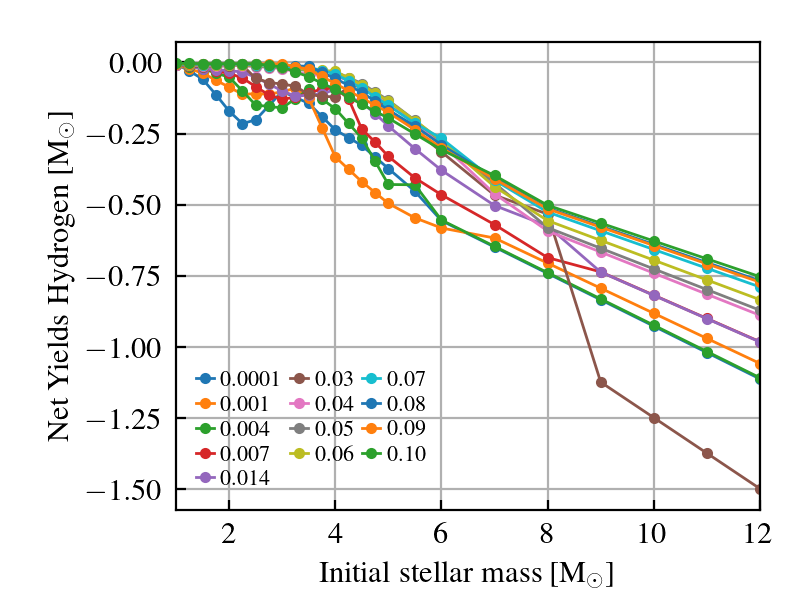
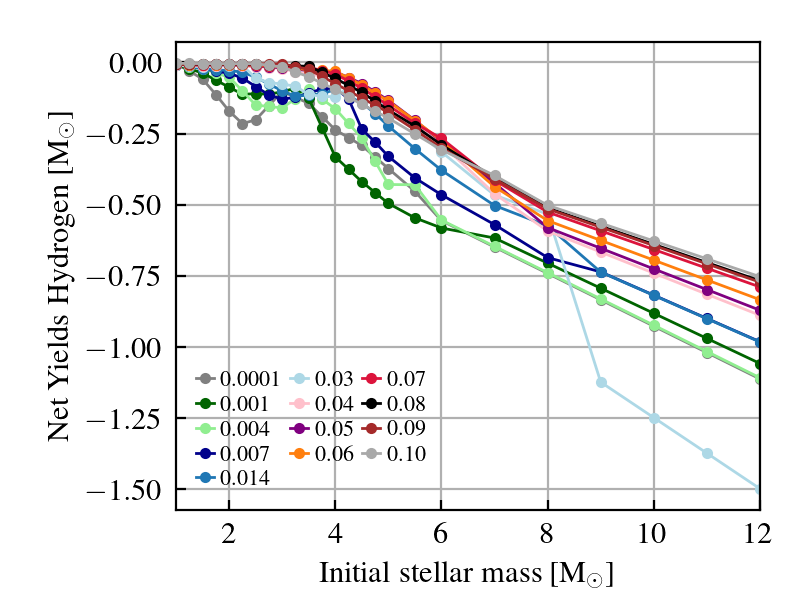
Re-making figures for AGB yields and testing N/O relations from yields

diff --git a/tests/test_abundance_ratios.py b/tests/test_abundance_ratios.py
@@ -1,0 +1,188 @@
+import h5py
+import numpy as np
+from pylab import *
+import matplotlib.pyplot as plt
+
+# Plot parameters
+params = {
+    "font.size": 11,
+    "font.family": "Times",
+    "text.usetex": True,
+    "figure.figsize": (4, 2.8),
+    "figure.subplot.left": 0.15,
+    "figure.subplot.right": 0.95,
+    "figure.subplot.bottom": 0.15,
+    "figure.subplot.top": 0.96,
+    "figure.subplot.wspace": 0.25,
+    "figure.subplot.hspace": 0.25,
+    "lines.markersize": 3,
+    "lines.linewidth": 1,
+    "figure.max_open_warning": 0,
+    "axes.axisbelow": True,
+}
+rcParams.update(params)
+
+mass_fraction = np.array([0.73738788833, #H
+                          0.24924186942, #He
+                          0.0023647215,  #C
+                          0.0006928991,  #N
+                          0.00573271036, #O
+                          0.00125649278, #Ne
+                          0.00070797838, #Mg
+                          0.00066495154, #Si
+                          0.00129199252]) #Fe
+
+total_mass_fraction = 0.0133714
+
+def read_AGB_COLIBRE():
+
+    #['Hydrogen','Helium','Carbon','Nitrogen','Oxygen','Neon','Magnesium','Silicon','Iron']
+    indx = np.array([0, 1, 2, 3, 4, 5, 6, 7, 10])
+
+
+    # Write data to HDF5
+    with h5py.File('../data/AGB.hdf5', 'r') as data_file:
+        Masses = data_file["Masses"][:]
+        Yield_Z0p0001 = data_file["/Yields/Z_0.0001/Yield"][:][:]
+        Ejected_mass_Z0p0001 = data_file["/Yields/Z_0.0001/Ejected_mass"][:]
+        Yield_Z0p001 = data_file["/Yields/Z_0.001/Yield"][:][:]
+        Ejected_mass_Z0p001 = data_file["/Yields/Z_0.001/Ejected_mass"][:]
+        Yield_Z0p004 = data_file["/Yields/Z_0.004/Yield"][:][:]
+        Ejected_mass_Z0p004 = data_file["/Yields/Z_0.004/Ejected_mass"][:]
+        Yield_Z0p007 = data_file["/Yields/Z_0.007/Yield"][:][:]
+        Ejected_mass_Z0p007 = data_file["/Yields/Z_0.007/Ejected_mass"][:]
+        Yield_Z0p014 = data_file["/Yields/Z_0.014/Yield"][:][:]
+        Ejected_mass_Z0p014 = data_file["/Yields/Z_0.014/Ejected_mass"][:]
+        Yield_Z0p03 = data_file["/Yields/Z_0.03/Yield"][:][:]
+        Ejected_mass_Z0p03 = data_file["/Yields/Z_0.03/Ejected_mass"][:]
+
+    num_mass_bins = len(Masses)
+    num_elements = len(mass_fraction)
+    num_metals = 6
+    stellar_yields = np.zeros((num_elements, num_mass_bins, num_metals))
+    total_yields = np.zeros(num_mass_bins)
+
+    for i in range(num_mass_bins):
+        stellar_yields[:, i, 0] = Yield_Z0p0001[indx, i] + (0.0001 / total_mass_fraction) * mass_fraction * Ejected_mass_Z0p0001[i]
+        stellar_yields[:, i, 1] = Yield_Z0p001[indx, i] + (0.001 / total_mass_fraction) * mass_fraction * Ejected_mass_Z0p001[i]
+        stellar_yields[:, i, 2] = Yield_Z0p004[indx, i] + (0.004 / total_mass_fraction) * mass_fraction * Ejected_mass_Z0p004[i]
+        stellar_yields[:, i, 3] = Yield_Z0p007[indx, i] + (0.007 / total_mass_fraction) * mass_fraction * Ejected_mass_Z0p007[i]
+        stellar_yields[:, i, 4] = Yield_Z0p014[indx, i] + (0.014 / total_mass_fraction) * mass_fraction * Ejected_mass_Z0p014[i]
+        stellar_yields[:, i, 5] = Yield_Z0p03[indx, i] + (0.03 / total_mass_fraction) * mass_fraction * Ejected_mass_Z0p03[i]
+
+
+    return Masses, stellar_yields
+
+def plot_AGB():
+
+    colibre_masses, colibre_yields = read_AGB_COLIBRE()
+
+    carbon = 2
+    nitrogen = 3
+    oxygen = 4
+
+    ######
+    plt.figure()
+
+    ax = plt.subplot(1, 1, 1)
+    ax.grid(True)
+    plt.grid(linestyle='-',linewidth=0.3)
+
+    plt.plot(colibre_masses, np.log10(colibre_yields[nitrogen,:,0] / colibre_yields[oxygen,:,0]),'-',color='black',label='$Z=0.0001$')
+    plt.plot(colibre_masses, np.log10(colibre_yields[nitrogen,:,1] / colibre_yields[oxygen,:,1]),'-',color='tab:green',label='$Z=0.001$')
+    plt.plot(colibre_masses, np.log10(colibre_yields[nitrogen,:,2] / colibre_yields[oxygen,:,2]),'-',color='lightgreen',label='$Z=0.004$')
+    plt.plot(colibre_masses, np.log10(colibre_yields[nitrogen,:,3] / colibre_yields[oxygen,:,3]),'-',color='darkblue',label='$Z=0.007$')
+    plt.plot(colibre_masses, np.log10(colibre_yields[nitrogen,:,4] / colibre_yields[oxygen,:,4]),'-',color='tab:blue',label='$Z=0.014$')
+    plt.plot(colibre_masses, np.log10(colibre_yields[nitrogen,:,5] / colibre_yields[oxygen,:,5]),'-',color='tab:orange',label='$Z=0.03$')
+
+    plt.ylabel('$\log_{10}$(N/O)')
+    plt.xlabel('Stellar Mass [M$_{\odot}$]')
+    plt.axis([0.5, 10, -1, 2])
+
+    props = dict(boxstyle='round', fc='white', ec='black', alpha=1)
+    ax.text(0.7, 0.93, 'Yields AGB', transform=ax.transAxes,
+            fontsize=12, verticalalignment='top', bbox=props)
+
+    plt.legend(loc=[0.02, 0.55], labelspacing=0.2, handlelength=0.8,
+               handletextpad=0.3, frameon=False, columnspacing=0.4,
+               ncol=1, fontsize=10)
+    ax.tick_params(direction='in', axis='both', which='both', pad=4.5)
+    plt.savefig('test_AGB.png', dpi=300)
+
+
+def read_SNII_COLIBRE(metallicity_flag, metallicity):
+
+    total_mass_fraction = 0.0133714
+
+    #['Hydrogen','Helium','Carbon','Nitrogen','Oxygen','Neon','Magnesium','Silicon','Iron'
+    indx = np.array([0, 1, 2, 3, 4, 5, 6, 7, 10])
+
+    factor = metallicity / total_mass_fraction
+
+    # Write data to HDF5
+    with h5py.File('../data/SNII_linear_extrapolation.hdf5', 'r') as data_file:
+        Masses = data_file["Masses"][:]
+        Ejected_mass_winds = data_file["/Yields/Z_"+metallicity_flag+"/Ejected_mass_in_winds"][:]
+        Ejected_mass_ccsn = data_file["/Yields/Z_"+metallicity_flag+"/Ejected_mass_in_ccsn"][:][:]
+        Total_metals = data_file["/Yields/Z_"+metallicity_flag+"/Total_Mass_ejected"][:]
+
+    select = np.where(Masses >= 8)[0]
+    Masses = Masses[select]
+    num_mass_bins = len(Masses)
+    num_elements = len(mass_fraction)
+    stellar_yields = np.zeros((num_elements, num_mass_bins))
+
+    for i in range(num_mass_bins):
+        stellar_yields[:, i] = Ejected_mass_ccsn[indx, i] + factor * mass_fraction * Ejected_mass_winds[i]
+        stellar_yields[:, i] = np.clip(stellar_yields[:, i], 1e-20, None)
+
+    return Masses, stellar_yields
+
+def plot_CCSN():
+
+    total_mass_fraction = 0.0133714
+
+    masses, colibre_Z0 = read_SNII_COLIBRE('0.000',0.000)
+    _, colibre_Z1 = read_SNII_COLIBRE('0.001',0.001)
+    _, colibre_Z2 = read_SNII_COLIBRE('0.004',0.004)
+    _, colibre_Z3 = read_SNII_COLIBRE('0.008',0.008)
+    _, colibre_Z4 = read_SNII_COLIBRE('0.020',0.020)
+
+    carbon = 2
+    nitrogen = 3
+    oxygen = 4
+
+    ####
+
+    plt.figure()
+    ax = plt.subplot(1, 1, 1)
+    ax.grid(True)
+    plt.grid(which='major', linestyle='-',linewidth=0.3)
+    plt.grid(which='minor', linestyle=':',linewidth=0.3)
+
+    with_oxygen = np.where(colibre_Z0[oxygen,:] > 1e-10)[0]
+    plt.plot(masses[with_oxygen], np.log10(colibre_Z0[nitrogen,with_oxygen]/colibre_Z0[oxygen,with_oxygen]),'-',color='darkgreen',label='Z=0.0')
+    plt.plot(masses, np.log10(colibre_Z1[nitrogen,:]/colibre_Z1[oxygen,:]),'-',color='lightgreen',label='Z=0.001')
+    plt.plot(masses, np.log10(colibre_Z2[nitrogen,:]/colibre_Z2[oxygen,:]),'-',color='darkblue',label='Z=0.004')
+    plt.plot(masses, np.log10(colibre_Z3[nitrogen,:]/colibre_Z3[oxygen,:]),'-',color='tab:blue',label='Z=0.008')
+    plt.plot(masses, np.log10(colibre_Z4[nitrogen,:]/colibre_Z4[oxygen,:]),'-',color='tab:orange',label='Z=0.02')
+
+    plt.ylabel('$\log_{10}$(N/O)')
+    plt.xlabel('Stellar Mass [M$_{\odot}$]')
+    plt.axis([8, 40, -6, 2])
+
+    props = dict(boxstyle='round', fc='white', ec='black', alpha=1)
+    ax.text(0.6, 0.93, 'Yields CCSN', transform=ax.transAxes,
+            fontsize=12, verticalalignment='top', bbox=props)
+
+    plt.legend(loc=[0.02, 0.74], labelspacing=0.2, handlelength=0.8,
+               handletextpad=0.3, frameon=False, columnspacing=0.4,
+               ncol=2, fontsize=10)
+    ax.tick_params(direction='in', axis='both', which='both', pad=4.5)
+
+    plt.savefig('./test_CCSN.png', dpi=300)
+
+if __name__ == "__main__":
+
+    #plot_AGB()
+    plot_CCSN()

diff --git a/plotter.py b/plotter.py
@@ -23,7 +23,7 @@ rcParams.update(params)
 
 def read_AGB_data(Z_ind):
 
-    with h5py.File('./data/AGB_test.hdf5', 'r') as data_file:
+    with h5py.File('./data/AGB.hdf5', 'r') as data_file:
         Masses = data_file["Masses"][:]
         yields = data_file["/Yields/"+Z_ind+"/Yield"][:][:]
 
@@ -36,6 +36,9 @@ def plot_AGB_tables():
         Z_ind = [x.decode() for x in data_file['Yield_names']]
         indx = np.arange(len(Z_ind))
 
+    color_list = ['grey','darkgreen','lightgreen','darkblue','tab:blue','lightblue',
+                  'pink','purple','tab:orange','crimson','black','brown','darkgrey']
+
     for i, elem in enumerate(indx):
 
         plt.figure()
@@ -45,7 +48,7 @@ def plot_AGB_tables():
         for j in range(len(Z_ind)):
             Masses, yields = read_AGB_data(Z_ind[j])
             label = Z_ind[j].replace("Z_","")
-            plt.plot(Masses, yields[indx[i], :], '-o', label=label)
+            plt.plot(Masses, yields[indx[i], :], '-o', label=label, color=color_list[j])
 
         if indx[i] >= 11: plt.yscale('log')
         plt.xlim(1, 12)

diff --git a/AGB_tables.py b/AGB_tables.py
@@ -108,11 +108,11 @@ def combine_tables():
 
 def make_AGB_tables():
 
-    make_Fishlock_table()
-    make_Doherty_table()
-    make_Karakas_table()
-    make_Karakas2010_table()
-    make_Cinquegrana_table()
-
-    combine_tables()
-    # plot_AGB_tables()
+    # make_Fishlock_table()
+    # make_Doherty_table()
+    # make_Karakas_table()
+    # make_Karakas2010_table()
+    # make_Cinquegrana_table()
+    #
+    # combine_tables()
+    plot_AGB_tables()
